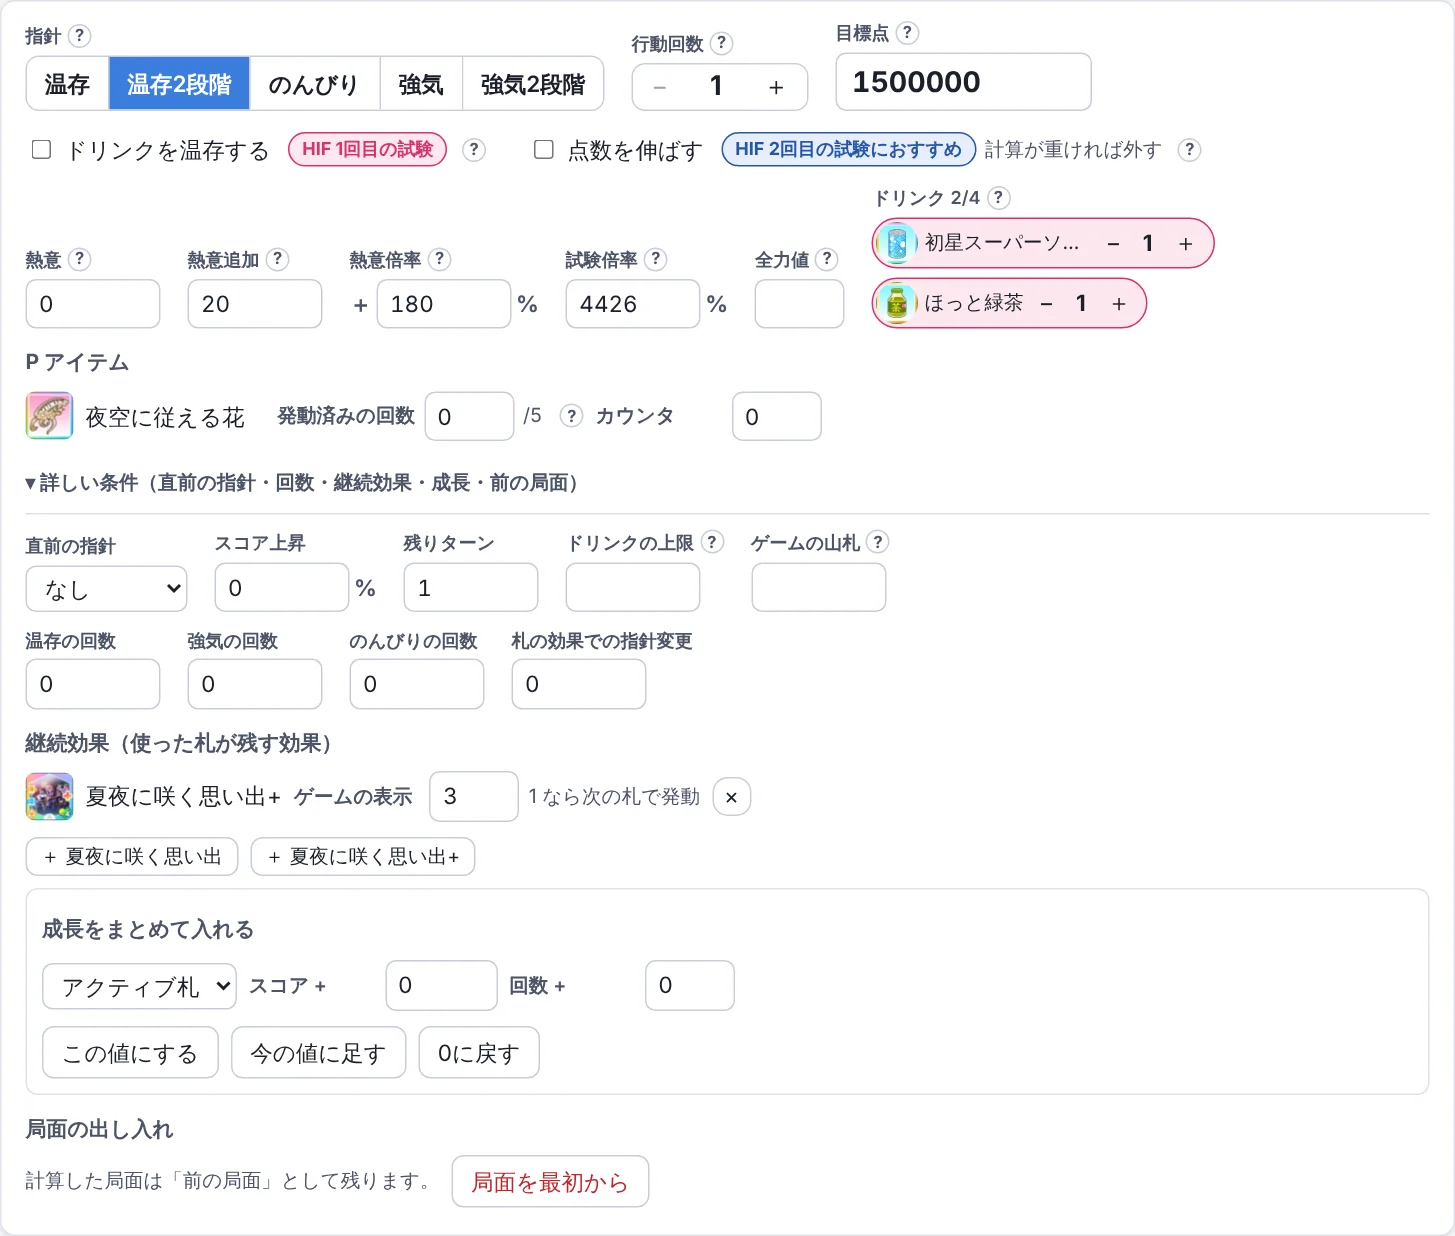
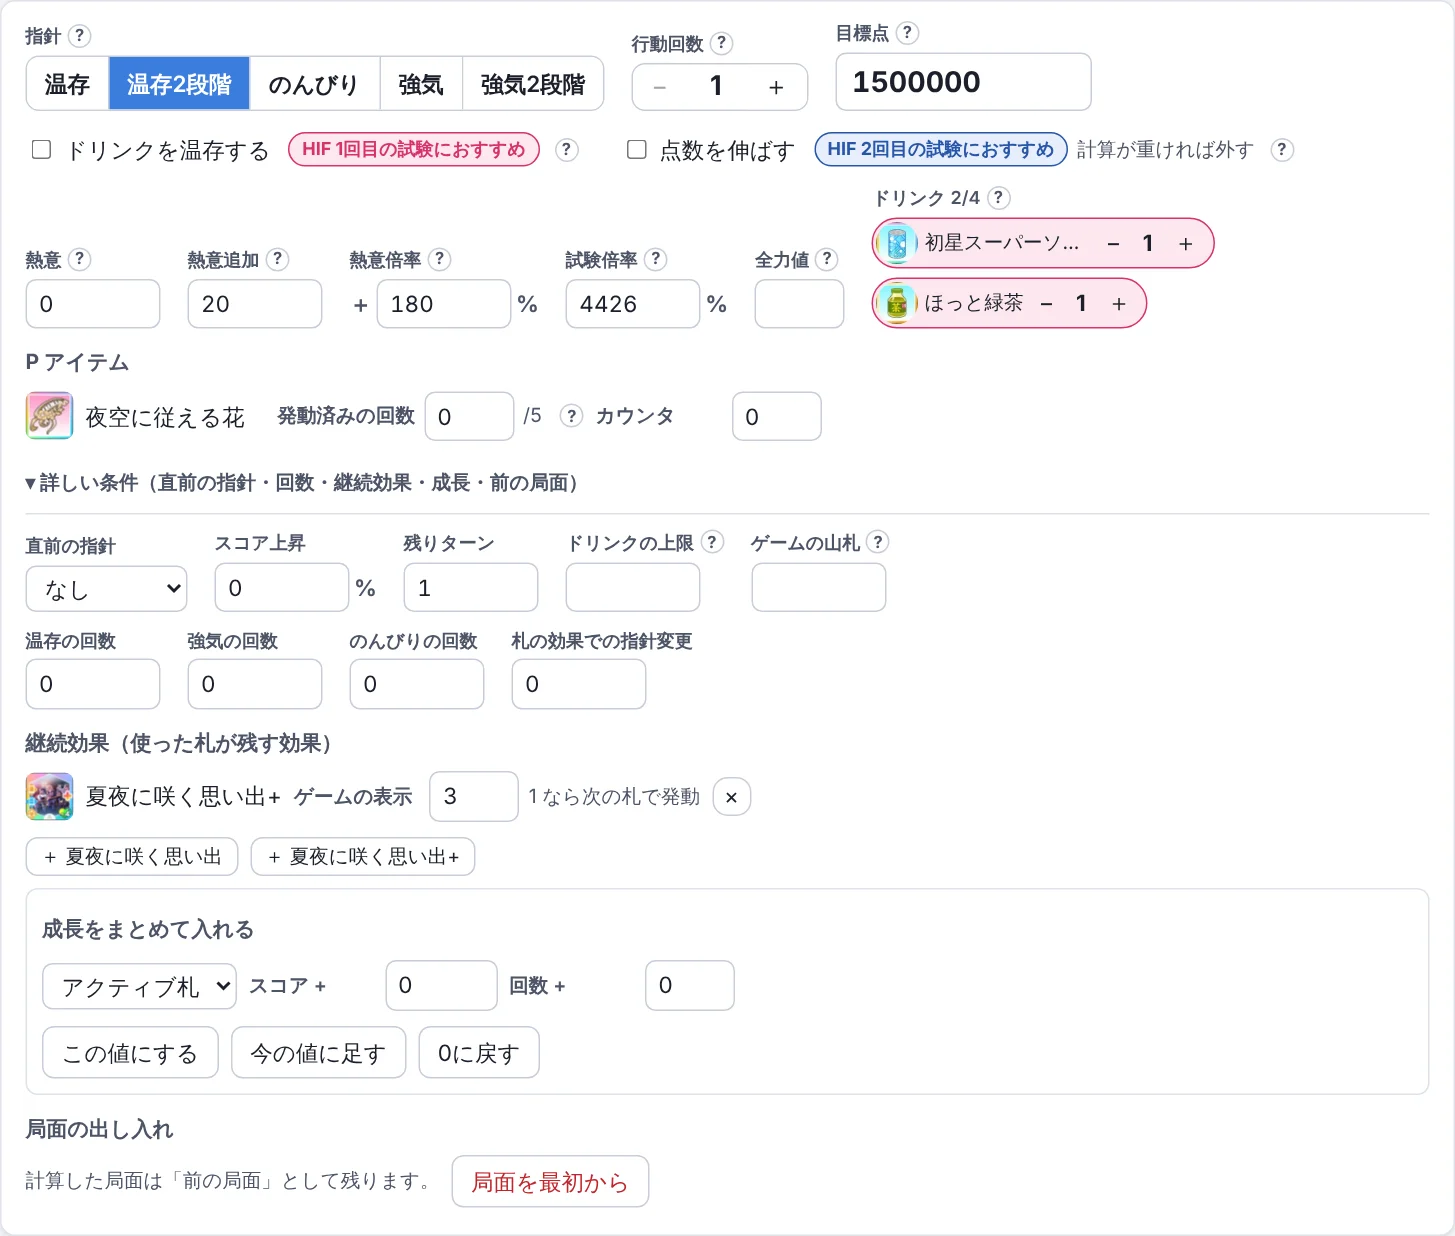
Solitaire Lab 1.14.9

Changed region(s): [[0.3093, 0.0922, 0.866, 0.1537]]

diff --git a/js/turn.js b/js/turn.js
@@ -101,7 +101,7 @@ export function renderTurn(root, rerender) {
       field('目標点', 'target', {width: 9, cls: 'big', tip: 'このターンで届かせたい点数。プレイの途中から作った局面では、それまでに入った点を引いた値'})),
     // 目標点の下のチェック：左に「ドリンクを温存する」（その下に「95%の答えも出す」）、右に「点数を伸ばす」（1.14.7、利用者の要望で 95% を温存の下へ）
     h('div.lastexam', {},
-      h('div.opt', {}, h('div.optrow', {}, h('label.f', {}, h('input', {type: 'checkbox', checked: !!p.saveDrinks && !p.beyondGoal, onchange: e => { p.saveDrinks = e.target.checked; if (e.target.checked) p.beyondGoal = false; touch(); }}), 'ドリンクを温存する', h('span.hiftag', 'HIF 1回目の試験')), qtip('HIF（試験が2回続くシナリオ）の1回目で、2回目のためにドリンクを残したいときに入れます。入れると、届く確率 → ドリンク → 手数 の順で比べ、ドリンクを少なく使う手を選びます。ほかのシナリオ・HIF の2回目では入れなくてかまいません（ドリンクは比べず、届く確率 → 手数 の順）')),
+      h('div.opt', {}, h('div.optrow', {}, h('label.f', {}, h('input', {type: 'checkbox', checked: !!p.saveDrinks && !p.beyondGoal, onchange: e => { p.saveDrinks = e.target.checked; if (e.target.checked) p.beyondGoal = false; touch(); }}), 'ドリンクを温存する', h('span.hiftag', 'HIF 1回目の試験におすすめ')), qtip('HIF（試験が2回続くシナリオ）の1回目で、2回目のためにドリンクを残したいときに入れます。入れると、届く確率 → ドリンク → 手数 の順で比べ、ドリンクを少なく使う手を選びます。ほかのシナリオ・HIF の2回目では入れなくてかまいません（ドリンクは比べず、届く確率 → 手数 の順）')),
         p.saveDrinks && !p.beyondGoal && h('label.f.both', {}, h('input', {type: 'checkbox', checked: S.settings.both !== false, onchange: e => { S.settings.both = e.target.checked; touch(); }}), '95%の答えも出す（少し遅くなる）')),
       h('div.opt', {}, h('div.optrow', {}, h('label.f.beyond', {}, h('input', {type: 'checkbox', checked: !!p.beyondGoal, onchange: e => { p.beyondGoal = e.target.checked; if (e.target.checked) p.saveDrinks = false; touch(); }}), '点数を伸ばす', h('span.hiftag.t2', 'HIF 2回目の試験におすすめ')), h('small.hint', '計算が重ければ外す'), qtip('HIF の2回目の試験におすすめです。計算が重い（時間がかかる・答えが出にくい）ときは外してください。入れると、届く確率を一番に、同じなら目標点に届いた先も含めた点の平均（期待最終点）が高い手を選びます。目標点に届いた後も手を続けます。ドリンク・手数は比べません。続きからの計算・途中からの即答・95%の答えはありません')))),
     h('div.hudrow', {},

diff --git a/manual/index.html b/manual/index.html
@@ -51,7 +51,7 @@
 <section class="slide cover">
   <h1>Solitaire Lab 詳細マニュアル</h1>
   <div class="sub">学園アイドルマスターの「ソリティア」で、<br>どの順番で札を使えば目標点に届きやすいかを教えてくれるツールです。</div>
-  <div class="ver">版 1.14.8 ・ ← → キー、または画面の左右を押してページをめくります</div>
+  <div class="ver">版 1.14.9 ・ ← → キー、または画面の左右を押してページをめくります</div>
 </section>
 
 <section class="slide">

diff --git a/manual/summary.html b/manual/summary.html
@@ -52,7 +52,7 @@
 <section class="slide cover">
   <h1>Solitaire Lab</h1>
   <div class="sub">学園アイドルマスターの「ソリティア」で、<br>どの順番で札を使えば目標点に届きやすいかを教えてくれるツールです。</div>
-  <div class="ver">概要 ・ 版 1.14.8 ・ くわしい使い方は「詳細マニュアル」をご覧ください</div>
+  <div class="ver">概要 ・ 版 1.14.9 ・ くわしい使い方は「詳細マニュアル」をご覧ください</div>
 </section>
 
 <section class="slide">
